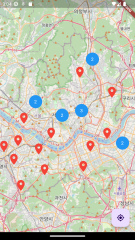
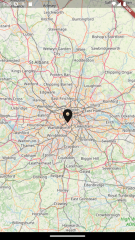
Add openstreetmap cluster example

diff --git a/openstreetmap_cluster/lib/main.dart b/openstreetmap_cluster/lib/main.dart
@@ -1,6 +1,5 @@
 import 'package:flutter/material.dart';
-import 'package:flutter_map/flutter_map.dart';
-import 'package:latlong2/latlong.dart';
+import 'map_screen.dart';
 
 void main() {
   runApp(const MyApp());
@@ -33,28 +32,7 @@ class MyApp extends StatelessWidget {
         colorScheme: ColorScheme.fromSeed(seedColor: Colors.deepPurple),
         useMaterial3: true,
       ),
-      home: FlutterMap(
-        options: MapOptions(
-          center: LatLng(51.509364, -0.128928),
-          zoom: 9.2,
-        ),
-        children: [
-          TileLayer(
-            urlTemplate: 'https://tile.openstreetmap.org/{z}/{x}/{y}.png',
-            userAgentPackageName: 'com.example.app',
-          ),
-          MarkerLayer(
-            markers: [
-              Marker(
-                point: LatLng(51.509364, -0.128928),
-                width: 80,
-                height: 80,
-                builder: (context) => const Icon(Icons.place, size: 50),
-              ),
-            ],
-          ),
-        ],
-      ),
+      home: const MapScreen(),
     );
   }
 }

diff --git a/openstreetmap_cluster/lib/map_screen.dart b/openstreetmap_cluster/lib/map_screen.dart
@@ -2,14 +2,13 @@ import 'package:flutter/material.dart';
 import 'package:flutter_map/flutter_map.dart';
 import 'package:flutter_map_marker_cluster/flutter_map_marker_cluster.dart';
 import 'package:latlong2/latlong.dart';
-
 import 'location_service.dart';
 
 class MapScreen extends StatefulWidget {
   const MapScreen({Key? key}) : super(key: key);
 
   @override
-  State<StatefulWidget> createState() => _MapScreenState();
+  State<MapScreen> createState() => _MapScreenState();
 }
 
 class _MapScreenState extends State<MapScreen> {

diff --git a/openstreetmap_cluster/README.md b/openstreetmap_cluster/README.md
@@ -1,4 +1,4 @@
-# openstreetmap
+# openstreetmap_cluster
 
 A new Flutter project.
 
@@ -18,6 +18,7 @@ samples, guidance on mobile development, and a full API reference.
 ## Screenshot
 
 ![Screenshot](./Screenshot.png)
+![Screenshot2](./Screenshot2.png)
 
 ## Installing
 
@@ -33,6 +34,45 @@ samples, guidance on mobile development, and a full API reference.
 
   ```dart
   import 'package:flutter_map/flutter_map.dart';
+  ```
+
+- [flutter_map_marker_cluster](https://github.com/lpongetti/flutter_map_marker_cluster)  
+  Provides beautiful animated marker clustering functionality for flutter_map. Inspired by Leaflet.markercluster
+
+  ```shell
+  fvm flutter pub add flutter_map_marker_cluster
+  ```
+
+  Import it
+
+  ```dart
+  import 'package:flutter_map_marker_cluster/flutter_map_marker_cluster.dart';
+  ```
+
+- [flutter-geolocator](https://github.com/Baseflow/flutter-geolocator)  
+  Android and iOS Geolocation plugin for Flutter
+
+  ```shell
+  fvm flutter pub add geolocator
+  ```
+
+  Import it
+
+  ```shell
+  import 'package:geolocator/geolocator.dart';
+  ```
+
+- [url_launcher](https://github.com/flutter/packages/tree/main/packages/url_launcher/url_launcher)  
+  A Flutter plugin for launching a URL.
+
+  ```shell
+  fvm flutter pub add url_launcher
+  ```
+
+  Import it
+
+  ```shell
+  import 'package:url_launcher/url_launcher.dart';
   ```
 
 ## Configure

diff --git a/webview/README.md b/webview/README.md
@@ -47,16 +47,6 @@ Edit `android/app/src/main/AndroidMainfest.xml`
 </manifest>
 ```
 
-Edit `android/app/build.gradle`
-
-```txt
-android {
-    defaultConfig {
-        minSdkVersion 19
-    }
-}
-```
-
 Edit `android/app/src/main/AndroidMainfest.xml` to allow http.
 
 ```xml
@@ -66,6 +56,16 @@ Edit `android/app/src/main/AndroidMainfest.xml` to allow http.
         ...
     </application>
 </manifest>
+```
+
+Edit `android/app/build.gradle`
+
+```txt
+android {
+    defaultConfig {
+        minSdkVersion 19
+    }
+}
 ```
 
 Edit `ios/Runner/Info.plist` to allow http.
